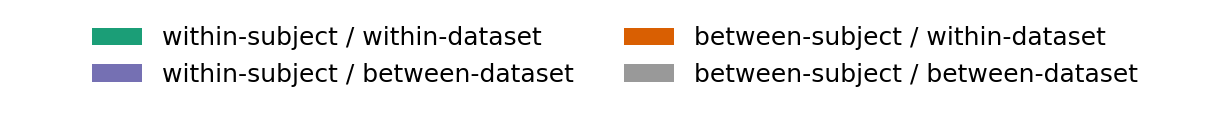
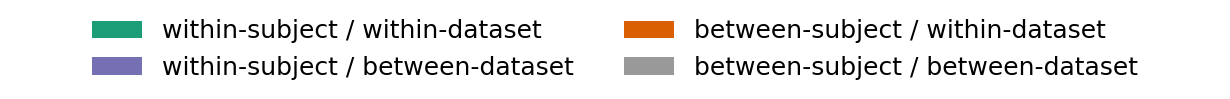
Correct per-network tSNR coverage claims; unclutter row-1 legends
The docs said per-network tSNR was impossible because atlas_tsnr covered
only floc/retinotopy/things. Since qa_figures 53a3340 it covers 11
datasets, and tsnr_{network} is non-NaN for 379 of 496 QC-covered
sessions. Update CLAUDE.md, both CONTENT.md files and the affected
docstrings/notebook text; a per-network run-tsnr-strata is now listed as
an open question rather than blocked.

Montage: shrink panel B's legend box so its second row clears the row-2
strap, and panel C's subject key to 4 mm so it no longer clips B's legend.

diff --git a/analysis/tsnr_strata.py b/analysis/tsnr_strata.py
@@ -8,10 +8,11 @@ configuration over the same `analysis/quality_strata.py` core. Two facts shape
 it (CLAUDE.md, "tSNR stratification"):
 
 - **Whole-brain tSNR only.** The stored session index carries `tsnr_{network}`
-  for every network, but `tables/atlas_tsnr/` is populated upstream only for
-  `floc`, `retinotopy` and `things` — exactly the three datasets the 1800 s
-  gate removes — so those columns are non-NaN for 0 of the 246 QC-covered
-  sessions. A per-network stratification would be all-NaN today.
+  for every network. When this was written `tables/atlas_tsnr/` was populated
+  upstream only for the three datasets the 1800 s gate removes, so those
+  columns were all-NaN over the QC-covered population; upstream filled most of
+  the gap on 2026-10-04, and a per-network version is now feasible but not
+  implemented (CLAUDE.md, "Still open").
 - **Two stratum definitions, not one.** `tsnr` and `fd_mean` correlate at
   r=-0.68, and a raw tSNR median split agrees with the motion stratum on 72%
   of sessions, so a raw-only analysis would largely re-run the motion result.

diff --git a/tasks.py b/tasks.py
@@ -700,8 +700,9 @@ def run_tsnr_strata(c, dataset=None, smoke=False):
     `stratum_def` column: `raw` tSNR, and `fd_residual` — tSNR residualized on
     `fd_mean` within the same cell, which is what separates a signal-quality
     effect from the motion effect the two axes share (r=-0.68). Whole-brain
-    tSNR only: `atlas_tsnr` is empty upstream for every gated dataset, so the
-    per-network columns are non-NaN for none of the covered sessions.
+    tSNR only, chosen when `atlas_tsnr` was empty upstream for every gated
+    dataset; it is now populated for most of them, but this step has not been
+    extended per network.
     Standalone figure, not placed in the headline montage — see CLAUDE.md.
 
     Reads output_data/connectomes/{dataset}_{parcellation}.h5 (`run-connectomes`'s

diff --git a/analysis/qc_join.py b/analysis/qc_join.py
@@ -74,8 +74,8 @@ def join_network_tsnr(entities, qa_root, network_order, datasets=None):
     """Add one `tsnr_<network>` column per entry in `network_order`.
 
     NaN when the entity or the group is not covered by qa_figures (see
-    CLAUDE.md — only 3 of 20 `atlas_tsnr` tables are populated, and subcortex
-    coverage is partial even where the table exists).
+    `source_data/CONTENT.md` — 11 of 20 `atlas_tsnr` tables are populated, and
+    subcortex coverage is partial even where the table exists).
     """
     entities = normalize_entities(entities)
     long = load_atlas_tsnr(qa_root, datasets=datasets)

diff --git a/analysis/group_stats.py b/analysis/group_stats.py
@@ -70,7 +70,7 @@ def network_quality(index_frame, network_order):
     """Per network: median `tsnr_{network}`, coverage count, contributing datasets.
 
     Returns NaN median with `n_tsnr=0` rather than raising when a network has
-    no coverage — most `atlas_tsnr` tables are still empty upstream (see
+    no coverage — several `atlas_tsnr` tables are still empty upstream (see
     CLAUDE.md, "The QC measures asset").
     """
     rows = []

diff --git a/CLAUDE.md b/CLAUDE.md
@@ -168,7 +168,7 @@ The companion robustness-tier check on the other QC axis (`analysis/tsnr_strata.
 
 Two empirical facts shaped the design, both settled before the code was written:
 
-- **Whole-brain tSNR only — per-network is impossible, not merely complex.** `run-connectomes` already joins `tsnr_{network}` onto every session index for all nine networks, but `tables/atlas_tsnr/` is populated upstream only for `floc`, `retinotopy` and `things` — exactly the three datasets the 1800 s gate removes entirely. So those columns are non-NaN for **0 of the 304 QC-covered sessions**, and a per-network stratification would be all-NaN. This is an upstream export gap this repo cannot fix; see `source_data/CONTENT.md`, "QC measures (qa_figures)". Do not reopen a per-network version without new `atlas_tsnr` data.
+- **Whole-brain tSNR only.** This was forced when the step was written: `tables/atlas_tsnr/` was then populated upstream only for `floc`, `retinotopy` and `things` — the three datasets the 1800 s gate removes — so the per-network `tsnr_{network}` columns `run-connectomes` joins onto every session index were all-NaN over the QC-covered population. **That gap closed upstream on 2026-10-04** (qa_figures `53a3340`): `atlas_tsnr` is now populated for 11 datasets — `floc`, `friends`, `gamepad`, `hcptrt`, `langlocalizer`, `mario`, `movie10`, `mutemusic`, `narratives`, `retinotopy` and `things` — and the columns are non-NaN for **379 of 496 QC-covered sessions** (`multfs`, `petit-prince`, `shinobi` remain uncovered). A per-network version is therefore now feasible; it is not implemented, and whether to add it is open (see "Still open" below).
 - **tSNR is strongly coupled to motion, so there are two stratum definitions.** `fd_mean` vs. `tsnr` is r = -0.68, and a raw tSNR median split lands in the same stratum as the motion split for **196 of 276** sessions (71%) — a raw-only analysis would largely re-run the motion check. Every table therefore carries a `stratum_def` column alongside `split`: `raw` (median split on `tsnr`) and `fd_residual` (median split on `tsnr` residualized on `fd_mean` **within the same cell**, via an OLS fit falling back to mean-centering on a zero-variance predictor). `fd_residual` is 146/276 concordant with the motion stratum — close enough to chance to read as an independent axis — and is the definition that answers "does signal quality matter *beyond* head motion". Both run in one code path, as `MOTION_SPLITS` already does for the split axis.
 
 **QC-covered population is keyed on `fd_mean`, not `tsnr`** (`quality_strata.COVERAGE_COLUMN`). The two have identical coverage in practice (304/304 QC-covered sessions, since both come from the same qa_figures table), and sharing one population definition is what makes `high_tsnr` vs. `low_motion` a like-for-like comparison — and what makes the `fd_residual` definition well-defined at all. `motion_balance.tsv` and `tsnr_balance.tsv` are deliberately symmetric about this: each reports the *other* axis alongside its own, never presenting the two as independent.
@@ -243,7 +243,9 @@ gaps this table is meant to surface all reproduce on real data: `mario3`,
 `mariostars`, `ood` show `timeseries_content_missing` (their `.h5` files are
 registered annex symlinks with 0 content fetched); `emotion-videos`,
 `langlocalizer`, `mario` show `qc_table_empty`; `atlas_tsnr_populated` is true
-only for `floc`, `retinotopy`, `things`.
+only for `floc`, `retinotopy`, `things`. (Those were the gaps when the step was
+written; upstream has since filled `langlocalizer`'s QC table and 8 more
+`atlas_tsnr` tables — exactly the drift `inventory_gaps.tsv` exists to show.)
 
 Dataset universe: every top-level `cneuromod.all` directory carrying a `bids`
 and/or timeseries-marker mountpoint (`analysis.asset_inventory.dataset_universe`),
@@ -292,7 +294,7 @@ runs.
 Do not settle these unilaterally — raise them with the user:
 
 - **Whether finer-grained usable-data criteria are worth adding** — e.g. per-run FD thresholds within a session, rather than the single session-level `usable_duration_sec >= 1800` gate. One standing rule: **exclusion thresholds must not be tuned against similarity contrasts.** Pick them a priori from QC, then report headline results with and without the worst-quality sessions.
-- **Whether to ask the qa_figures maintainers to populate `tables/atlas_tsnr/` for the naturalistic datasets.** It is currently exported for `floc`, `retinotopy` and `things` only — exactly the three datasets the 1800 s gate removes — which is the sole reason `run-tsnr-strata` cannot run per network (see "tSNR stratification" above). Nothing in this repository can close that gap; it needs an upstream export.
+- **Whether to add a per-network version of `run-tsnr-strata`.** Upstream populated `tables/atlas_tsnr/` for the naturalistic datasets on 2026-10-04, so per-network tSNR now covers 379 of 496 QC-covered sessions (see "tSNR stratification" above) — the blocker that kept the step whole-brain only is gone. `multfs`, `petit-prince` and `shinobi` are still uncovered, so a per-network version would run on a smaller population than the whole-brain one.
 - **Whether the cneuromod2026 label-ordering assumption in `build_cneuromod2026_labels` is correct.** It is asserted against known per-network counts and raises if wrong, but has not yet been checked against a real dseg (no S3 credentials were available while implementing it) — see "The parcel -> network lookup" above.
 
 ### Project-specific conventions

diff --git a/source_data/CONTENT.md b/source_data/CONTENT.md
@@ -118,25 +118,26 @@ Two table families under `output_data/tables/` inside the checkout, both
   groups.
 
 **Coverage is partial, and downstream code must tolerate it** — this is an
-upstream credentialed-content gap, not a bug here. As of **2026-08-17**: 17 of
-21 per-run tables are populated (`anat`, `emotion-videos`, `langlocalizer`,
-`mario` are empty 1-byte files); only **3** `atlas_tsnr` tables are populated
-(`things`, `retinotopy`, `floc`) — the other 17 are empty. `analysis.qc_measures.
+upstream credentialed-content gap, not a bug here. As of **2026-10-04**
+(qa_figures `53a3340`): 18 of 21 per-run tables are populated (`anat`,
+`emotion-videos`, `mario` are empty 1-byte files); **11** of 20 `atlas_tsnr`
+tables are populated (`floc`, `friends`, `gamepad`, `hcptrt`, `langlocalizer`,
+`mario`, `movie10`, `mutemusic`, `narratives`, `retinotopy`, `things`) — the
+other 9 are empty. `analysis.qc_measures.
 available_datasets` reports only the non-empty tables, and the loaders skip
 empty ones rather than raising.
 
-**The `atlas_tsnr` gap is load-bearing for the analysis, not just tidiness.**
-The three populated tables — `things`, `retinotopy`, `floc` — are exactly the
-three datasets the `usable_duration_sec >= 1800` gate removes entirely
-(CLAUDE.md, "Settled analysis decisions"). So although `run-connectomes` joins
-per-network tSNR onto every session index as `tsnr_{network}`, those columns
-are non-NaN for **0 of the 304 QC-covered sessions**. Any per-network tSNR
-analysis — including a per-network version of `run-tsnr-strata` — is
-impossible until the naturalistic datasets' `atlas_tsnr` tables are populated
-upstream. `run-tsnr-strata` therefore uses the whole-brain `tsnr` scalar only,
-and `group_stats.network_quality` reports per-network tSNR from those three
-gate-excluded datasets purely as context. Nothing in this repository can close
-this gap; it needs an upstream qa_figures export.
+**The `atlas_tsnr` gap used to be load-bearing for the analysis.** Until
+2026-10-04 only `things`, `retinotopy` and `floc` were populated — exactly the
+three datasets the `usable_duration_sec >= 1800` gate removes — so the
+`tsnr_{network}` columns `run-connectomes` joins onto every session index were
+non-NaN for none of the QC-covered sessions, and `run-tsnr-strata` was built
+on the whole-brain `tsnr` scalar only. With the naturalistic tables now
+populated, those columns are non-NaN for **379 of 496 QC-covered sessions**
+(`multfs`, `petit-prince`, `shinobi` still uncovered; `mario` has per-network
+tSNR but no motion table, so it stays outside the QC-covered population).
+`run-tsnr-strata` is still whole-brain only; a per-network version is now
+feasible but not implemented (CLAUDE.md, "Still open").
 
 `analysis/qc_join.py` joins these entities against the timeseries `.h5` run
 keys (`ses-XXX/ses-XXX_task-..._run-N_timeseries`), normalizing both sides

diff --git a/output_data/CONTENT.md b/output_data/CONTENT.md
@@ -133,9 +133,9 @@ Once the pipeline is run, this folder will contain the following.
   `"raw"` (median split on `tsnr`) or `"fd_residual"` (median split on `tsnr`
   residualized on `fd_mean` within the same cell — near-independent of the
   motion stratum, where `raw` is 72% concordant with it). Whole-brain `tsnr`
-  only: the per-network `tsnr_{network}` columns are non-NaN for none of the
-  covered sessions, because `atlas_tsnr` is populated upstream only for the
-  three datasets the gate removes (see `source_data/CONTENT.md`).
+  only — chosen when per-network `atlas_tsnr` was empty upstream for every
+  gated dataset; it has since been populated for most of them (see
+  `source_data/CONTENT.md`), but this step has not been extended.
   - `tsnr_strata.tsv` — `network × stratum_def × split × bin` -> `n, median,
     q25, q75, mean, sd, n_sessions`. `bin` is one of the six `{high-high,
     low-high, low-low}/{within-task, between-task}` labels — good-good first,
